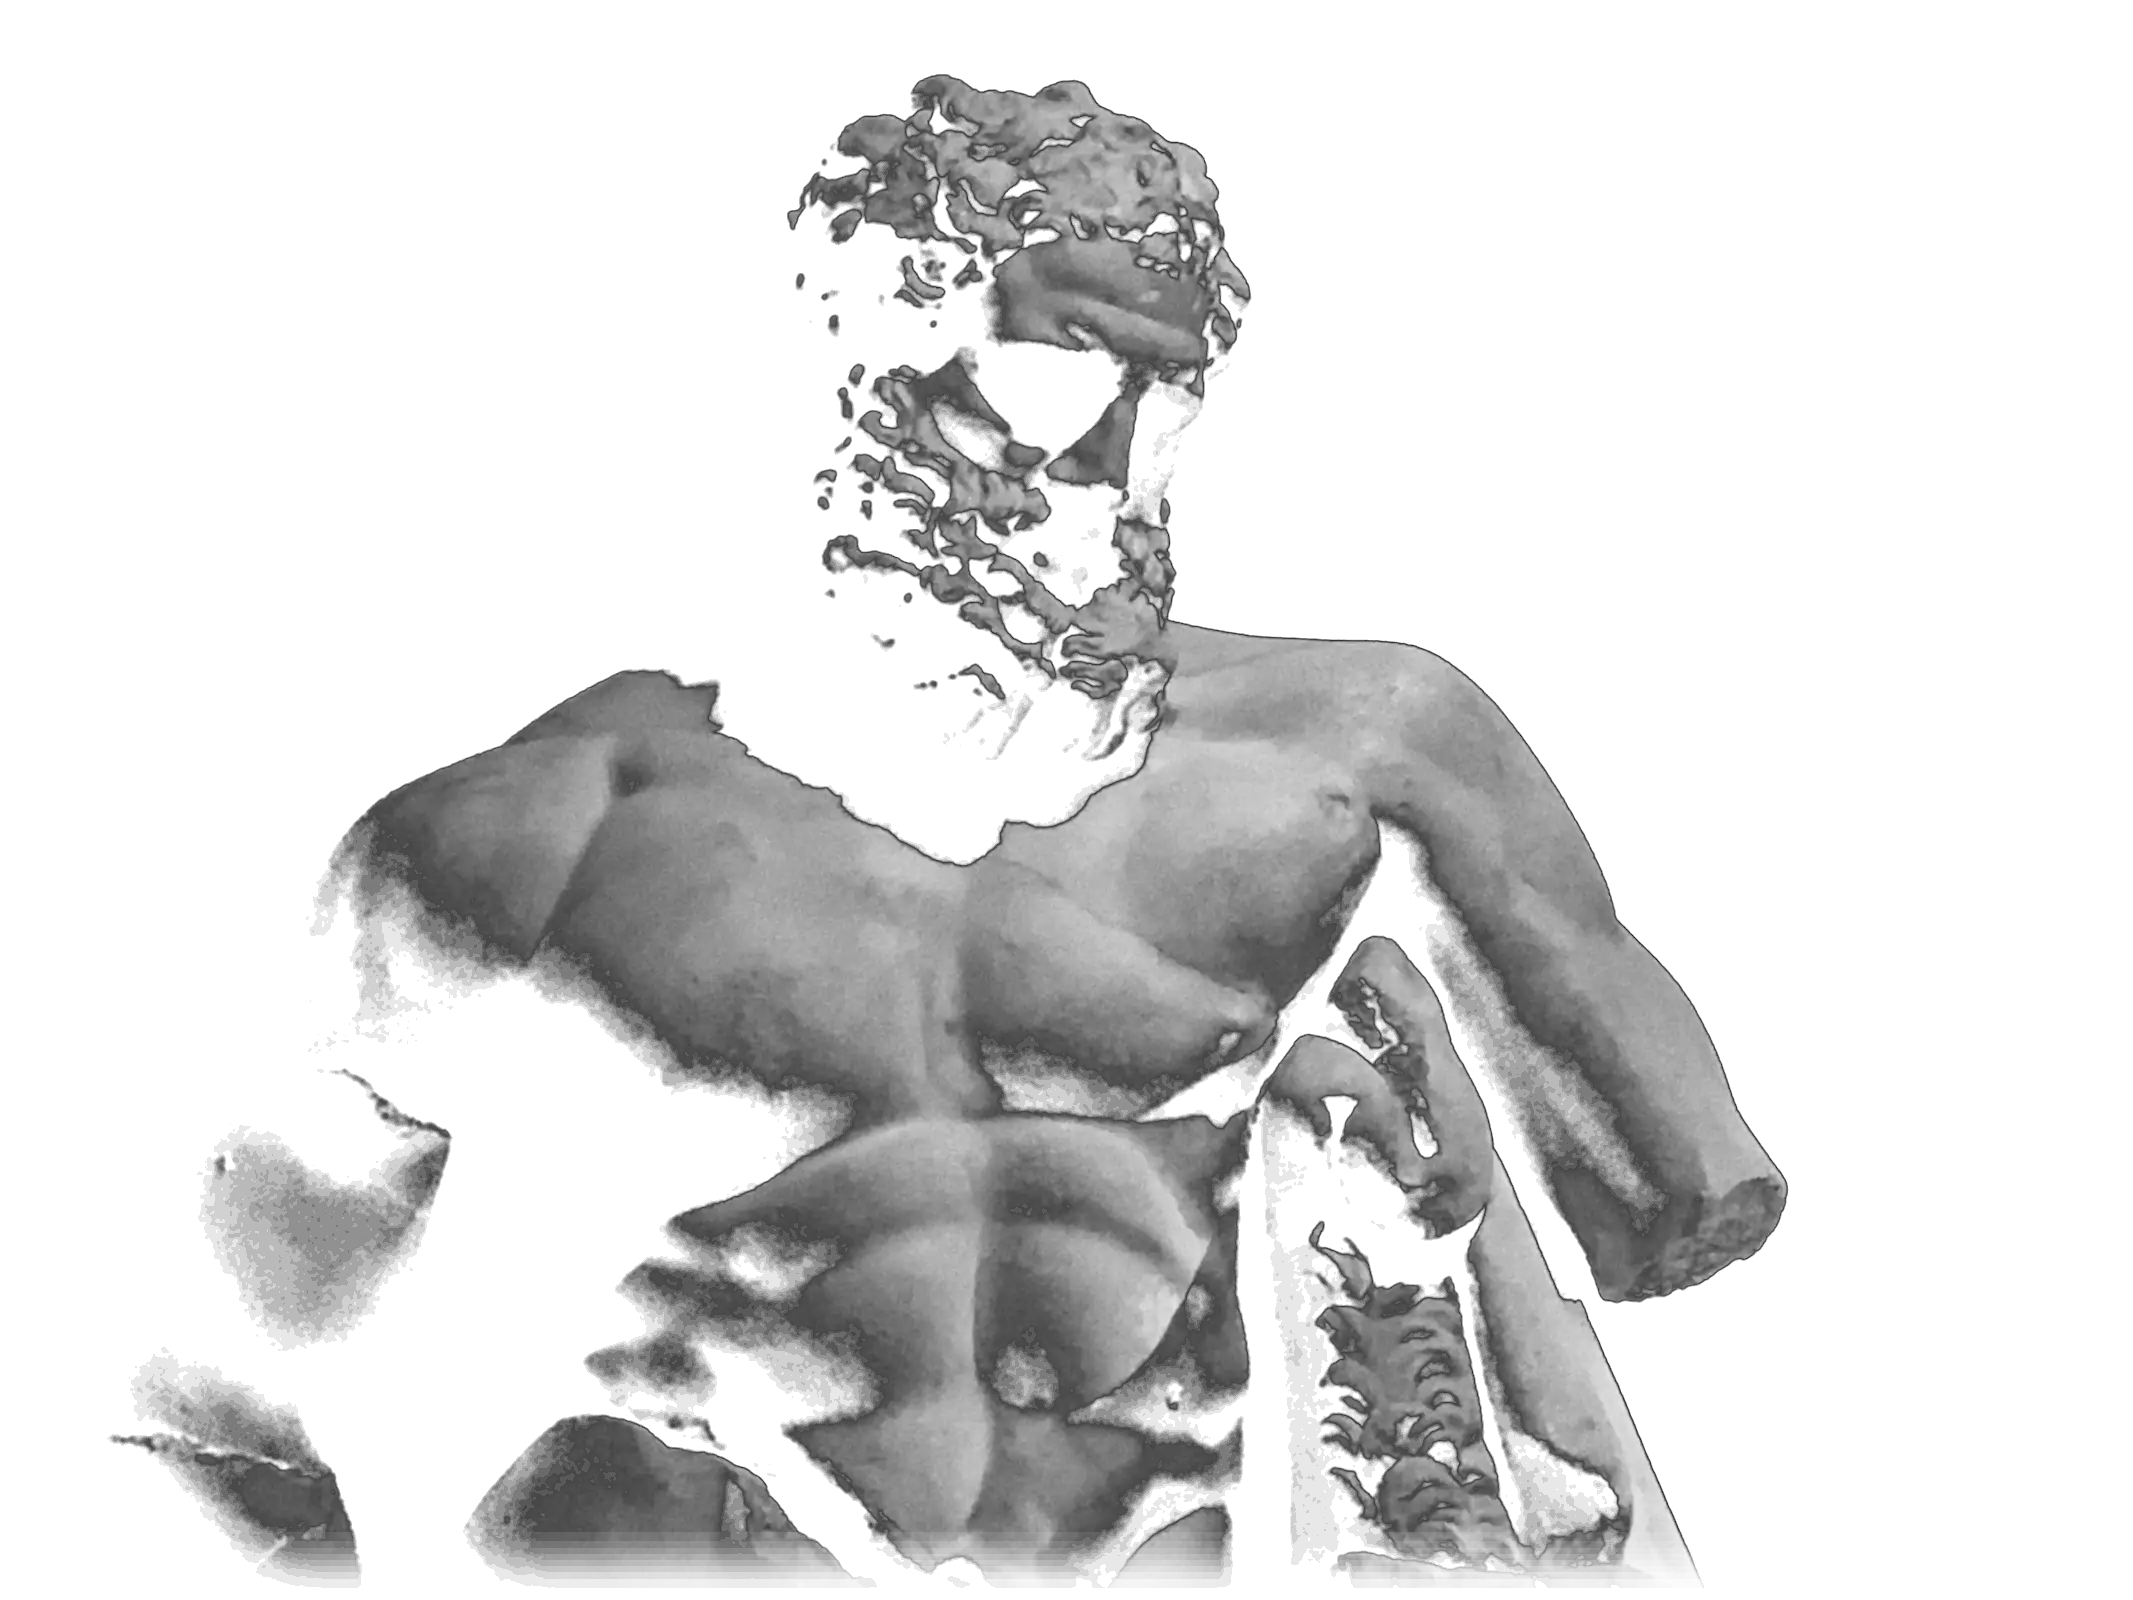
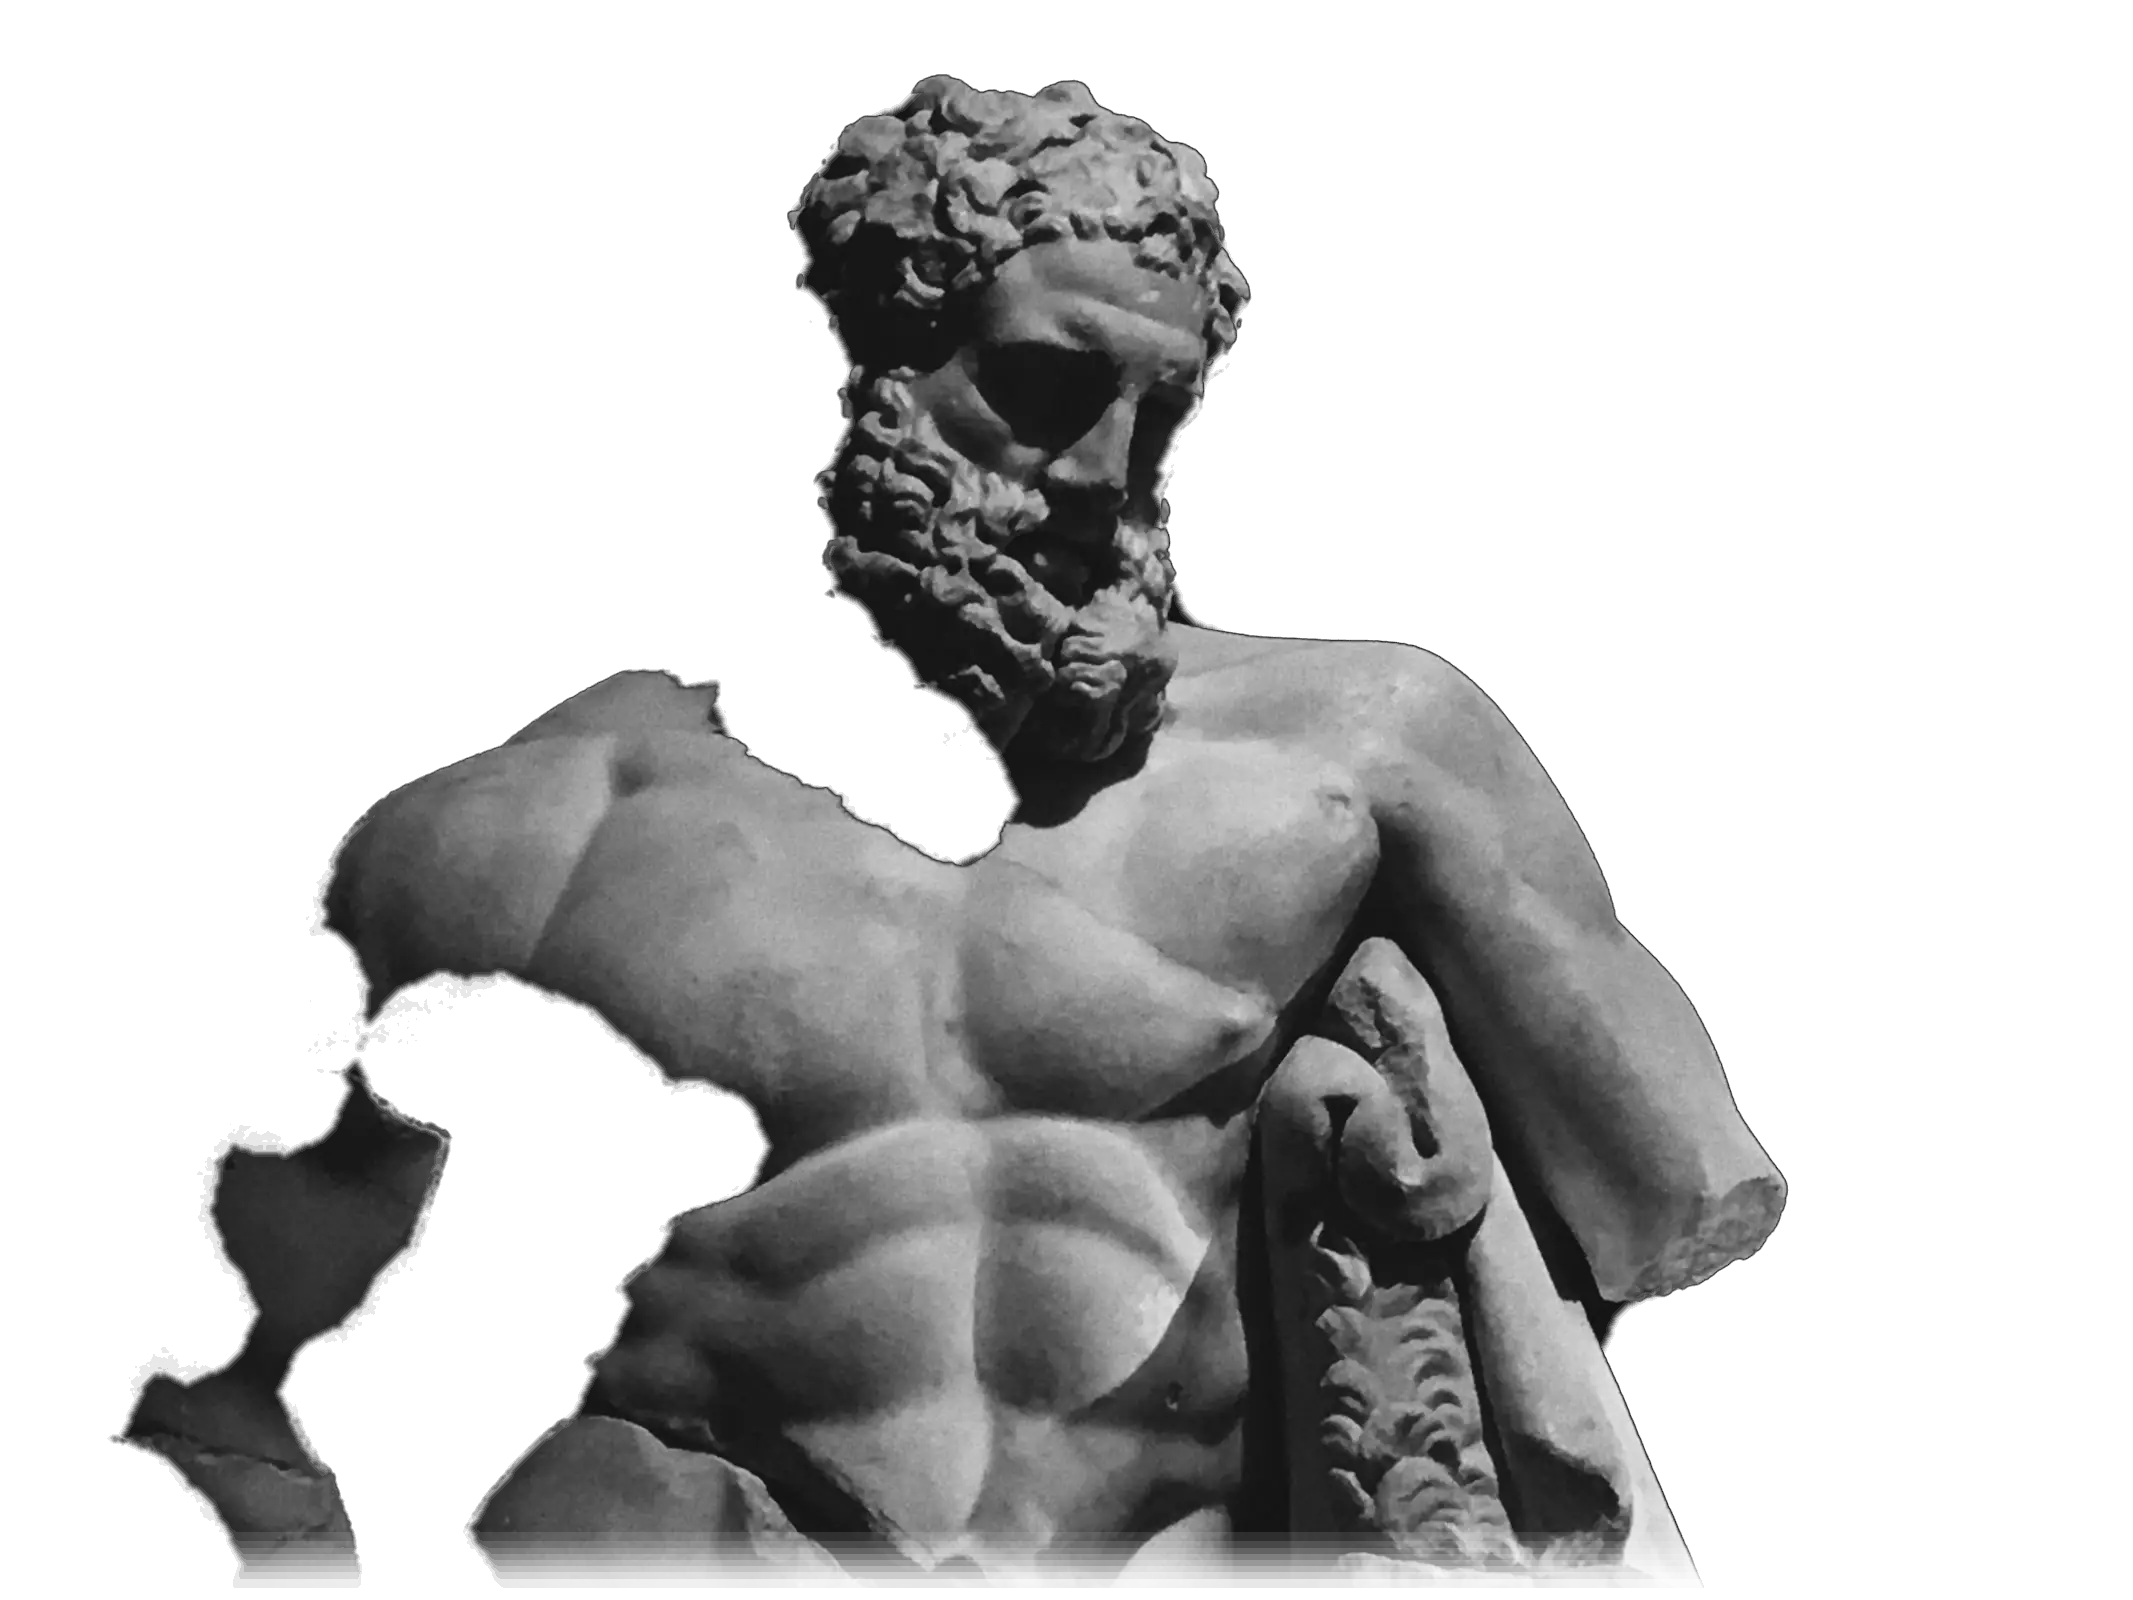
Hero: Hercules's face filled, and a phone held sideways composed
The hero's Hercules had a hole for a face: his face is turned into shadow
as dark as the ground behind him, so the luminance key cut his eyes, nose
and cheek out, and on the hero (which keyed nothing more) the blurred
David showed through. scripts/fetch-cast.mjs now fills him: inside his
outline the alpha is full (the key's mask closed by a 56px disc, its
holes filled, drawn in 8px and feathered, so the outer edge is still the
key's own) and the colour is lifted to at least 6/255. The hero keys
nothing more (threshold 0), so his shadows print in the print's darkest
ink and his face holds as a face in shadow. The intro and the title cards
keep the component's key, so they look as they did. The file is the same
size in pixels and smaller (145 KB to 75 KB).

On a phone held sideways (under 500px tall, 3:2 and wider: 667x375,
844x390) the hero ran past the screen and cut the surname off. There it
is now laid out as a wide screen: his words at the left (the tagline held
to 56% of the width), Hercules beside them (compose() places him so
already when the words stand left), the name held to a fifth of the
height and the room above it to 4svh. Measured: the whole name ends at
359 of 375 and 374 of 390; portrait phones are unchanged.

Claude-Session: https://claude.ai/code/session_01A3ktvwNhXBDbSCT3FK6Yw7

diff --git a/src/components/stage/stage.tsx b/src/components/stage/stage.tsx
@@ -100,9 +100,13 @@ const GRAIN = {
  * A dark halo keeps every letter's edge where the statue's marble stands
  * behind the name: tight to the letter, then soft, as the intro's word
  * keeps its own over the statues (imperial.ts WORD_HALO).
+ *
+ * On a phone held sideways (a screen under 500px tall) the name is held to
+ * a fifth of the height, so his words, both ways in and the whole name
+ * stand on the one screen.
  */
 const NAME =
-  'relative -mx-4 flex flex-col items-center font-roman font-medium uppercase text-foreground md:-mx-12 [--n:min(calc((100cqw-2rem)/4.151),36svh)] md:[--n:min(calc((100cqw-6rem)/4.151),36svh)]'
+  'relative -mx-4 flex flex-col items-center font-roman font-medium uppercase text-foreground md:-mx-12 [--n:min(calc((100cqw-2rem)/4.151),36svh)] md:[--n:min(calc((100cqw-6rem)/4.151),36svh)] [@media(max-height:500px)]:[--n:min(calc((100cqw-2rem)/4.151),20svh)]!'
 
 /**
  * Below the light, the print sinks into its shadow: from a little above the
@@ -122,17 +126,21 @@ const NAME_HALO =
  * statue on a phone or a tall screen; on a wide one they stand at the left
  * (on the page's column, under the top bar's name), the tagline a stanza of
  * its three sentences, and Hercules on the right.
+ * A phone held sideways (under 500px tall and at least 3:2) sets them as a
+ * wide screen does, at the left with Hercules beside them, since there is
+ * no room above the name for him under them.
  * They set in once as the page opens, as the intro's landing's words do (a
  * transition from their starting style; while the intro is up they are held
  * there, and let go as it lifts), never under reduced motion. The name never
  * moves: it is the first and largest paint.
  */
+/* A phone held sideways (the variant below, written out in full where it is used so Tailwind sees each class): short, and wide enough for his words and Hercules side by side. */
 const COPY =
-  'relative flex flex-col items-center text-center lg:[@media(min-aspect-ratio:5/4)]:items-start lg:[@media(min-aspect-ratio:5/4)]:ml-[max(0px,calc(50cqw-640px))] lg:[@media(min-aspect-ratio:5/4)]:self-start lg:[@media(min-aspect-ratio:5/4)]:text-left'
+  'relative flex flex-col items-center text-center lg:[@media(min-aspect-ratio:5/4)]:items-start lg:[@media(min-aspect-ratio:5/4)]:ml-[max(0px,calc(50cqw-640px))] lg:[@media(min-aspect-ratio:5/4)]:self-start lg:[@media(min-aspect-ratio:5/4)]:text-left [@media(max-height:500px)_and_(min-aspect-ratio:3/2)]:items-start [@media(max-height:500px)_and_(min-aspect-ratio:3/2)]:self-start [@media(max-height:500px)_and_(min-aspect-ratio:3/2)]:text-left'
 const SET_IN =
   'motion-safe:transition-[opacity,translate] motion-safe:duration-[1200ms] motion-safe:ease-[cubic-bezier(0.16,1,0.3,1)] motion-safe:starting:translate-y-4 motion-safe:starting:opacity-0 motion-safe:[html[data-intro]:not([data-intro=lift])_&]:translate-y-4 [html[data-intro]:not([data-intro=lift])_&]:opacity-0'
 const TAGLINE =
-  'max-w-[24em] font-serif text-[clamp(1.25rem,6cqw,1.625rem)] italic leading-[1.15] text-(--stage-text) text-balance md:text-[clamp(1.75rem,3.4cqw,2.5rem)] lg:[@media(min-aspect-ratio:5/4)]:text-[clamp(2rem,3.1cqw,3.25rem)] lg:[@media(min-aspect-ratio:5/4)]:leading-[1.12] [text-shadow:0_1px_24px_color-mix(in_srgb,var(--background)_60%,transparent)]'
+  'max-w-[24em] [@media(max-height:500px)_and_(min-aspect-ratio:3/2)]:max-w-[min(24em,56cqw)] font-serif text-[clamp(1.25rem,6cqw,1.625rem)] italic leading-[1.15] text-(--stage-text) text-balance md:text-[clamp(1.75rem,3.4cqw,2.5rem)] lg:[@media(min-aspect-ratio:5/4)]:text-[clamp(2rem,3.1cqw,3.25rem)] lg:[@media(min-aspect-ratio:5/4)]:leading-[1.12] [text-shadow:0_1px_24px_color-mix(in_srgb,var(--background)_60%,transparent)]'
 const SENTENCE = 'lg:[@media(min-aspect-ratio:5/4)]:block'
 
 /** The tagline's sentences, each with the space before it, so the words are the record's exactly. */
@@ -160,7 +168,7 @@ function Hero() {
               </span>
             ))}
           </p>
-          <div className={cn('mt-5 flex flex-wrap items-center justify-center gap-x-7 gap-y-1 md:mt-7 md:gap-x-9 lg:[@media(min-aspect-ratio:5/4)]:justify-start', SET_IN, 'motion-safe:delay-[400ms]')}>
+          <div className={cn('mt-5 flex flex-wrap items-center justify-center gap-x-7 gap-y-1 md:mt-7 md:gap-x-9 lg:[@media(min-aspect-ratio:5/4)]:justify-start [@media(max-height:500px)_and_(min-aspect-ratio:3/2)]:mt-4 [@media(max-height:500px)_and_(min-aspect-ratio:3/2)]:justify-start', SET_IN, 'motion-safe:delay-[400ms]')}>
             <a href="#work" className={stageButton('primary')}>
               See the work
             </a>
@@ -170,7 +178,7 @@ function Hero() {
           </div>
         </div>
         {/* Hercules's room (hero-painting-stage.tsx): at least this much between his words and his name. */}
-        <div aria-hidden="true" data-hero-room="" className="min-h-[max(8rem,24svh)] flex-1 lg:[@media(min-aspect-ratio:5/4)]:min-h-[6svh]" />
+        <div aria-hidden="true" data-hero-room="" className="min-h-[max(8rem,24svh)] flex-1 lg:[@media(min-aspect-ratio:5/4)]:min-h-[6svh] [@media(max-height:500px)]:min-h-[4svh]" />
       </div>
     </section>
   )

diff --git a/src/components/stage/hero-painting-stage.tsx b/src/components/stage/hero-painting-stage.tsx
@@ -49,8 +49,14 @@ export const HEAD = { top: 0.046, chin: 0.44, left: 0.369, right: 0.594 } as con
 /** The middle of his head, curls and all, across the photograph. */
 const HEAD_X = (HEAD.left + HEAD.right) / 2
 
-/** The cast's files are pre-keyed (cast.ts): the component's own key only keeps their edge. */
-const KEY = { threshold: 0.08, softness: 0.08 } as const
+/**
+ * The file is pre-keyed and filled (scripts/fetch-cast.mjs): its alpha is
+ * his whole outline, his shadowed face included. So the component keys
+ * nothing more (no luminance reads as ground): his shadows print in the
+ * print's darkest ink rather than letting the backdrop through, and his
+ * face holds as a face in shadow, as the intro's Apollo's does.
+ */
+const KEY = { threshold: 0, softness: 0.02 } as const
 
 /** On a phone or a tall screen: his head and the chest under it take this share of his room; the rest of his chest stands behind the name. */
 const TALL_SHARE = 0.66
